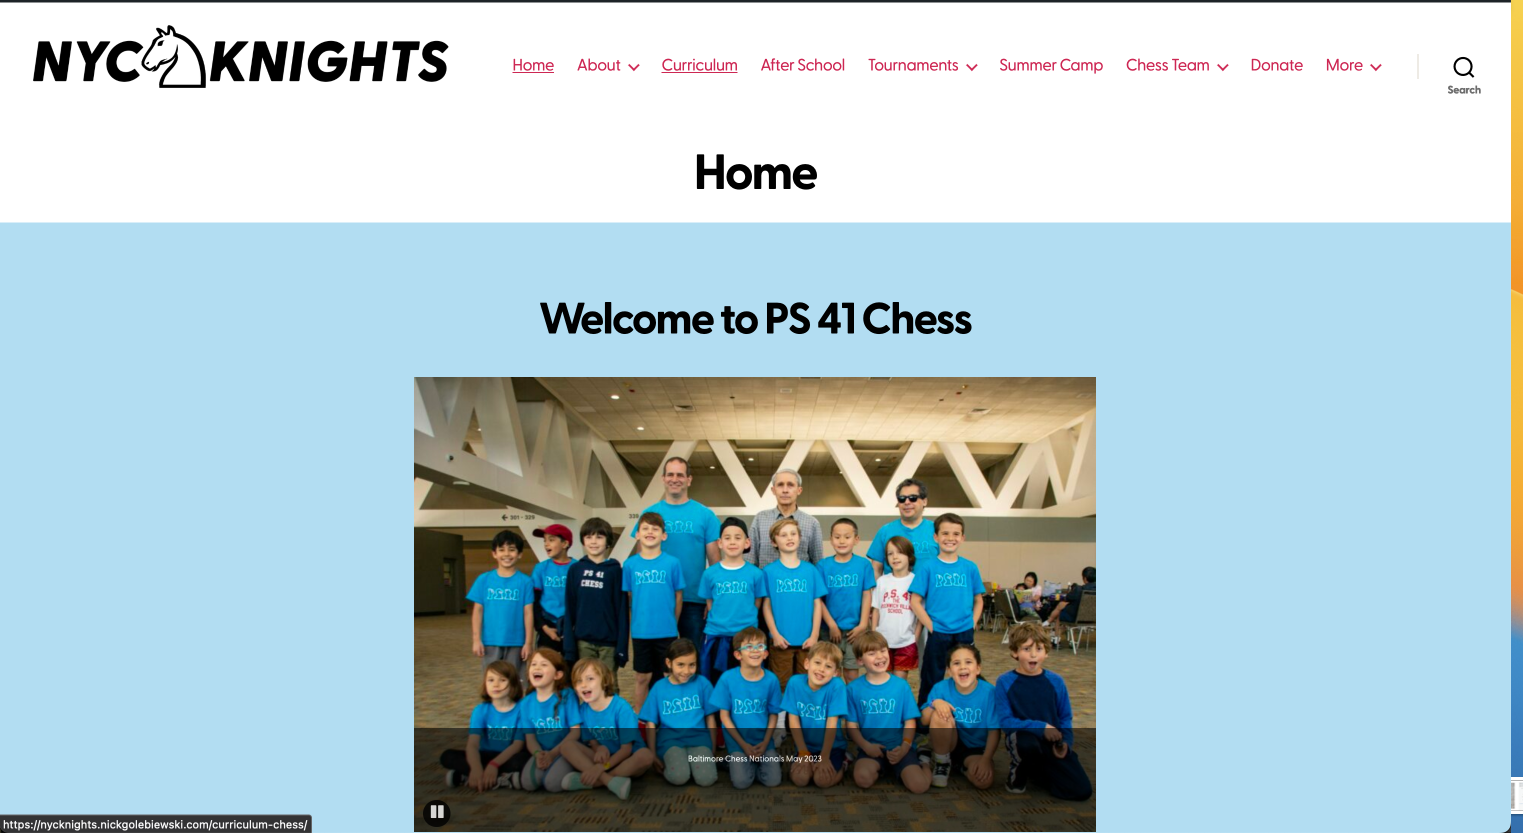
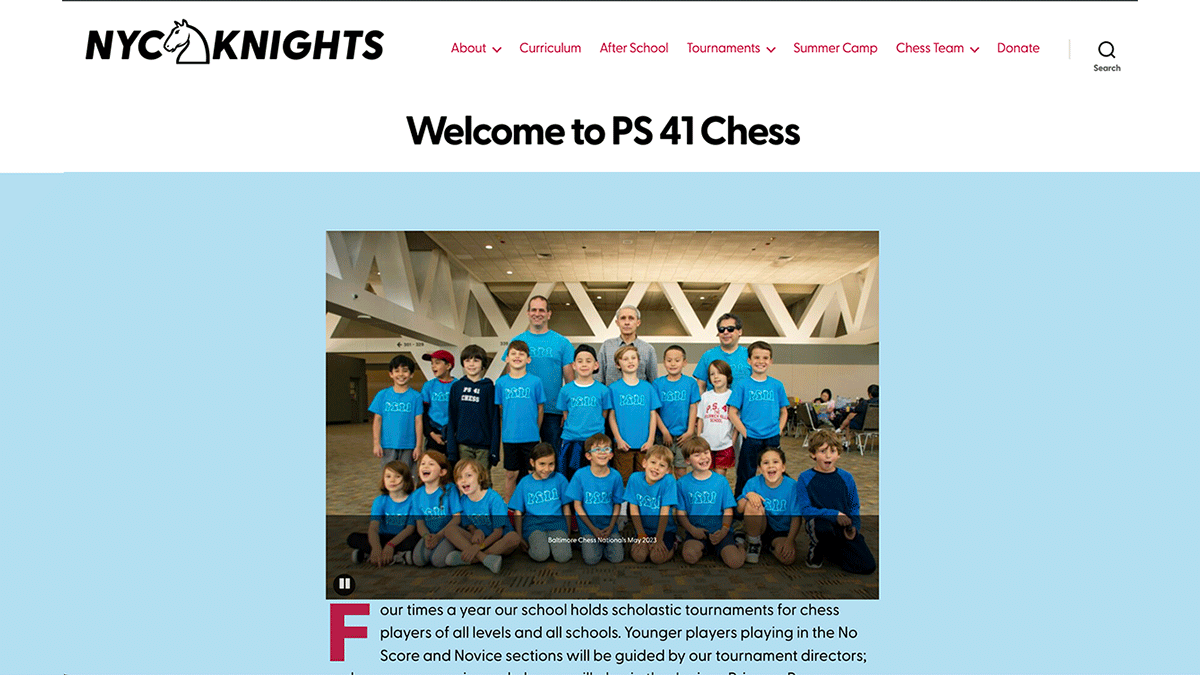
update page number exclusion on header menu, new screenshot

diff --git a/style.css b/style.css
@@ -12,13 +12,16 @@
 */
 
 /*
-  Hi next person or parent updating the PS41 chess webpage. Well, it's on Wordpress, 
-  I needed to switch templates in 2024 when PHP 7.4 went defunct and the wordpress.com server was updating everything to PHP 8.1
-  The template designed after 10/15 years ago isn't compatible, I tried updating it, but it was a no go. 
-  I decided to use a default wordpress template: twenty twenty, and create a child theme for it, in order for updates to be able to be applied for the longest time.
-  I thought everything would be Node and Javascript in the web, but here it is, this will seem so "legacy" when you read it.
-  I made a github repo so you can grab all this code, since it is inacessable even if you ssh into the sever.
+  Hi next person or parent updating the PS41 chess webpage,
+  
+  Well, it's on Wordpress, 
+  I needed to switch templates in 2024 when PHP 7.4 went defunct and the wordpress.com server was updating everything to PHP 8.1.
+  The template designed 10/15 years ago isn't compatible, I tried updating it, but it was a no go. 
+  I decided to use a default wordpress template: twenty twenty, and create a child theme for it, in order for updates to be able to be applied to the main theme for the longest time.
+
+  I made this GitHub repo so you can access all the code for this child theme, since themes are inacessable in entirety on wordpress.com, even if you ssh into the sever.
   https://github.com/ngolebiewski/nyc-knights
+
   All the best and watch out for the 4 move checkmate,
   Nick
   6-24-2024

diff --git a/header.php b/header.php
@@ -104,7 +104,7 @@
 									)
 								);
 							} elseif (!has_nav_menu('expanded')) {
-								$exclude_ids = array(4361, 400, 442, 448, 435, 446); // IDs of pages to exclude home, footer, contact, in the news
+								$exclude_ids = array(4, 4361, 400, 442, 448, 435, 446); // IDs of pages to exclude home, footer, contact, in the news
 
 								wp_list_pages(
 									array(
